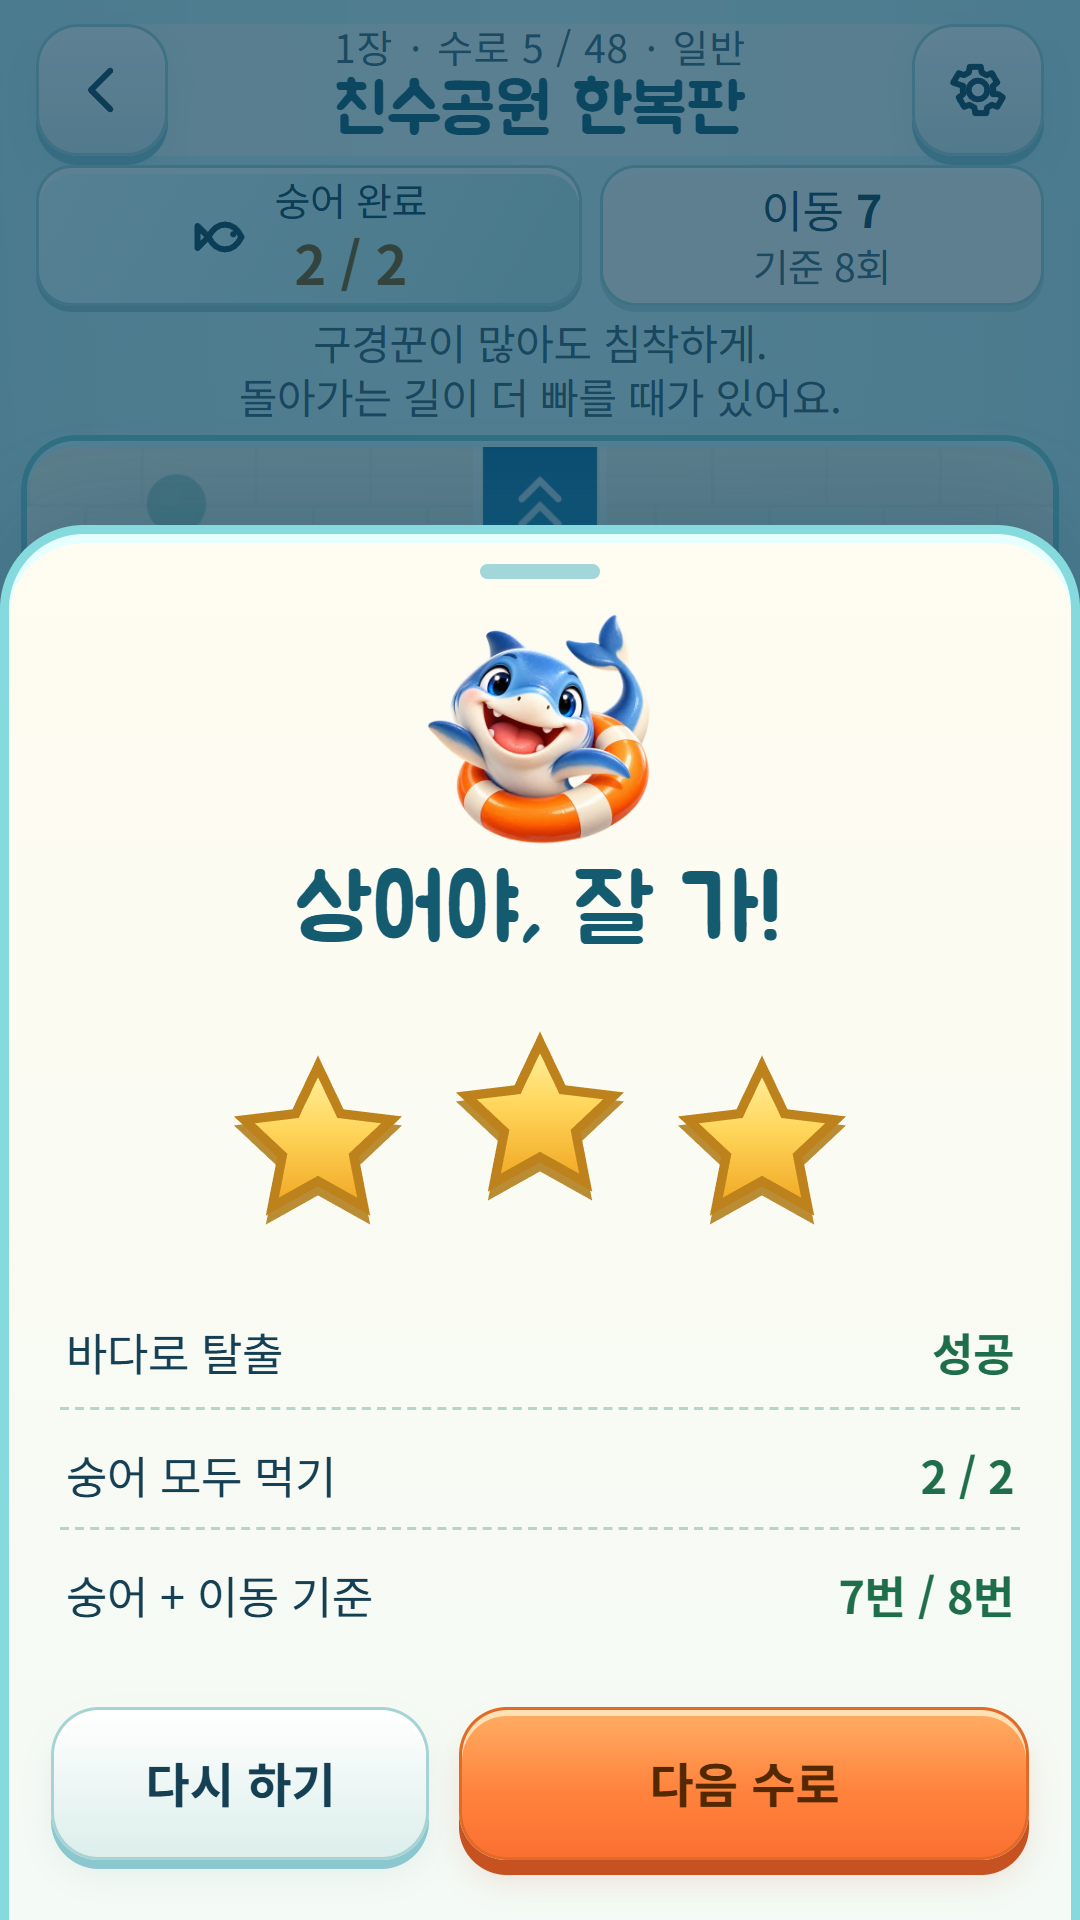
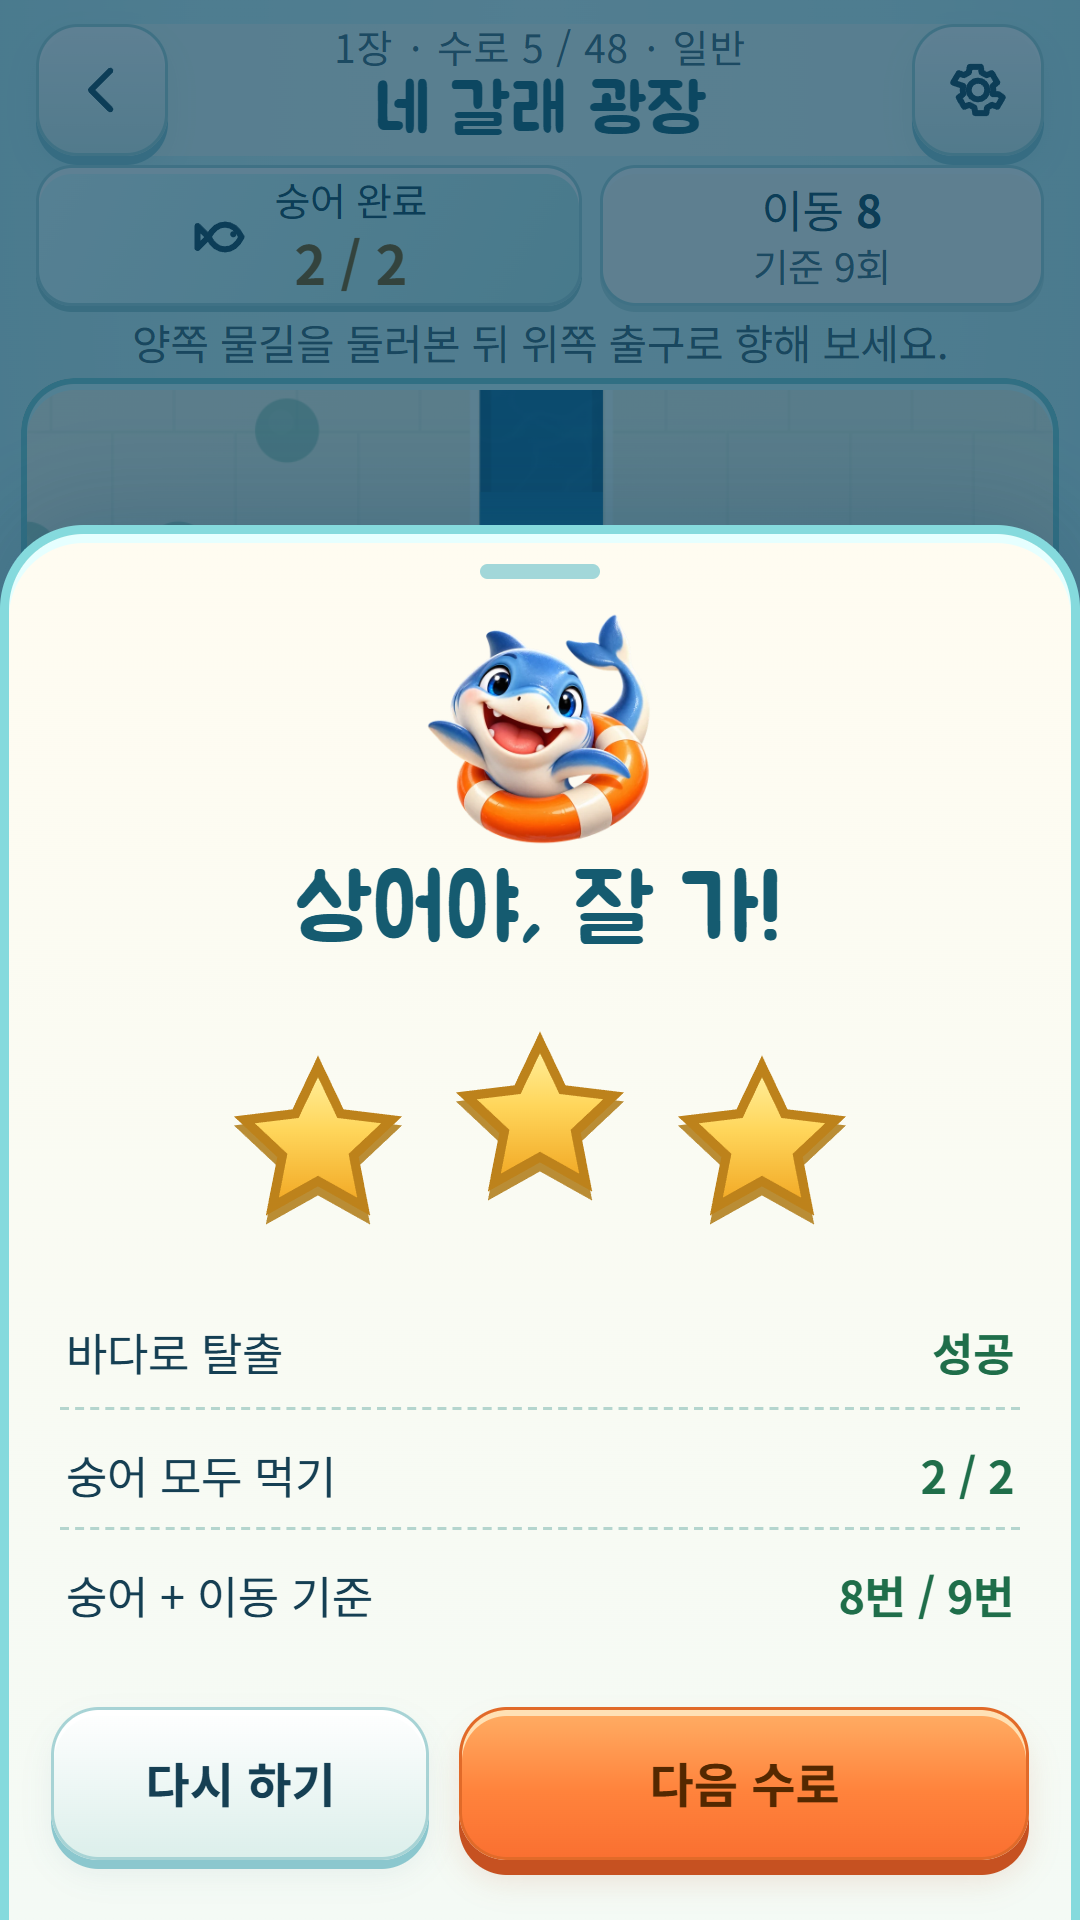
스토어 스크린샷을 교체된 수로 기준으로 재생성
shots.js의 수로 5 클리어 장면 해법을 새 '네 갈래 광장' 최단 해법(ULULRULU)으로 바꾸고,
수로 5·43·28이 바뀐 소스로 스크린샷 6장과 그래픽 이미지를 다시 만들었다(리뷰 지적 반영).

diff --git a/tools/shots.js b/tools/shots.js
@@ -31,7 +31,7 @@ const scenes = [
     for (const d of 'UL') { swipe(d); await sleep(1200); }` },
   { name: '4-clear', save: { best: done(4), last: 4 }, run: `
     document.querySelector('.lv[data-i="4"]').click(); await sleep(400);
-    for (const d of 'URDLURU') { swipe(d); await sleep(1300); }
+    for (const d of 'ULULRULU') { swipe(d); await sleep(1300); }
     await sleep(1200);` },
   { name: '5-chapter4', save: { best: done(42), last: 42 }, run: `
     document.querySelector('.lv[data-i="42"]').click(); await sleep(400);
